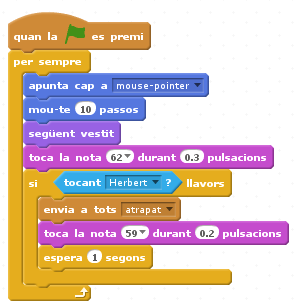
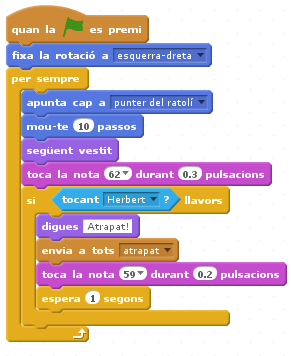
updated felix-simple

diff --git a/materials/Trimestre1/felix-simple/index.html b/materials/Trimestre1/felix-simple/index.html
@@ -44,7 +44,7 @@ title: Home
 <li>Creeu un nou projecte.</li>
 <li>Feu doble clic al escenari i canvieu a la pestanya dels Fons, llavors seleccioneu el fons indoors/hall. Suprimiu el fons blanc original.</li>
 <li>Canvieu el nom del personatge per Fèlix. </li>
-<li>Assegureu-vos que en Fèlix només miri a esquerra i dreta prement aquest botó:</li>
+<li>Assegureu-vos que en Fèlix només miri a esquerra i dreta utilitzant el bloc <strong>fixa moviment</strong></li>
 <li>Creeu aquest programa:</li>
 </ol>
 
@@ -90,8 +90,8 @@ per sempre
 <li>Creeu una nova animació escollint animals-mouse1.</li>
 <li>Canvieu el nom de l'animació per Herbert.</li>
 <li>Editeu el vestit i feu-l'ho més petit que el de'n Fèlix.
-Proveu fent 6 clics al botó reduir.</li>
-<li>Assegureu-vos que en Herbert només miri a esquerra i dreta.</li>
+Proveu fent 6 clics al botó <strong>encongir</strong>.</li>
+<li>Assegureu-vos que en Herbert només miri a esquerra i dreta utilitzant el bloc <strong>fixa moviment</strong></li>
 <li>Doneu-li aquest programa a en Herbert:</li>
 </ol>
 
@@ -213,7 +213,7 @@ per sempre
 <ol>
 <li>Importeu un nou vestit per en Herbert de fantasy/ghost2-a.</li>
 <li>Editeu-l'ho per fer-l'ho més petit.
-N'hi hauria d'haver prou amb sis clics al botó d'reduir.</li>
+N'hi hauria d'haver prou amb sis clics al botó <strong>encongir</strong>.</li>
 <li>Canvieu els noms dels vestits d'en Herbert de manera que vestit de ratolí s'anomeni 'viu' i el de fantasma 'fantasma'.</li>
 <li>Creeu un nou programa per tal de convertir en Herbert en un fantasma:</li>
 </ol>
@@ -257,7 +257,7 @@ En Fèlix roman quiet prou temps per a que en Herbert es pugui escapar?</p>
 Començarem amb el marcador a zero i l'incrementarem una unitat cada segon. Si en Fèlix atrapa en Herbert, reduirem el marcador en cent unitats.</strong></p>
 
 <ol>
-<li><p>Creeu una variable per a totes les animacions i anomeneu-la Marcador. Feu clic a Variables en el menu de dalt, creeu una variable i anomeneu-la Marcador.</p></li>
+<li><p>Creeu una variable per a totes les animacions fent clic a Variables en el menu de dalt, i anomeneu-la <strong>puntuació</strong>.</p></li>
 <li><p>Creeu aquests dos programes a l'escenari</p></li>
 </ol>
 
